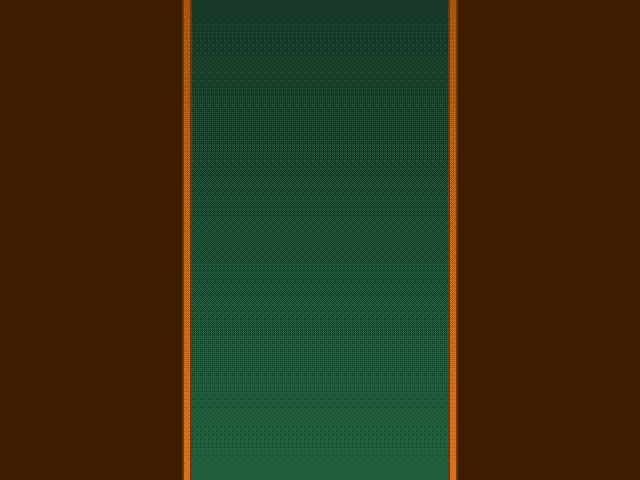
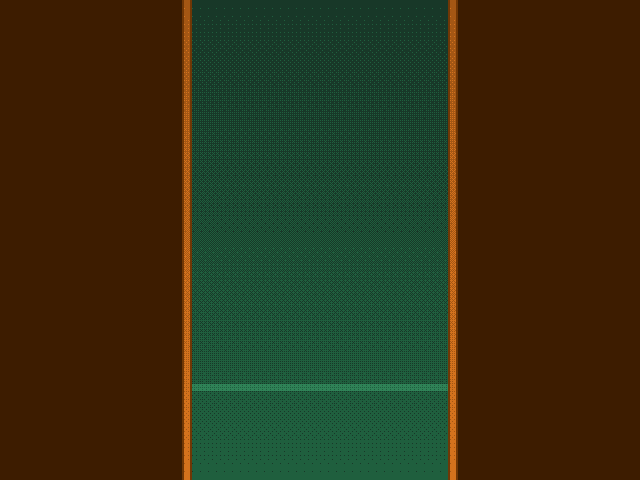
Update Sprite
- Added game over line to background

Changed region(s): [[0.2812, 0.7812, 0.7188, 0.8125]]

diff --git a/MainScene.cs b/MainScene.cs
@@ -149,7 +149,7 @@ public class MainScene
         _spriteBatch.Draw(_chipTexture, new Vector2(Singleton.SCREEN_WIDTH / 8, 400),new Rectangle(chipIndex * 32, 0, 32, 35),Color.White); 
 
         //Game Over Line
-        _spriteBatch.Draw(_rectTexture, new Vector2(0, Singleton.CHIP_GRID_HEIGHT * Singleton.CHIP_SIZE), null, Color.White, (float) (3*Math.PI/2), Vector2.Zero, 1, SpriteEffects.None, 0f);
+        //_spriteBatch.Draw(_rectTexture, new Vector2(0, Singleton.CHIP_GRID_HEIGHT * Singleton.CHIP_SIZE), null, Color.White, (float) (3*Math.PI/2), Vector2.Zero, 1, SpriteEffects.None, 0f);
 
     }
 
